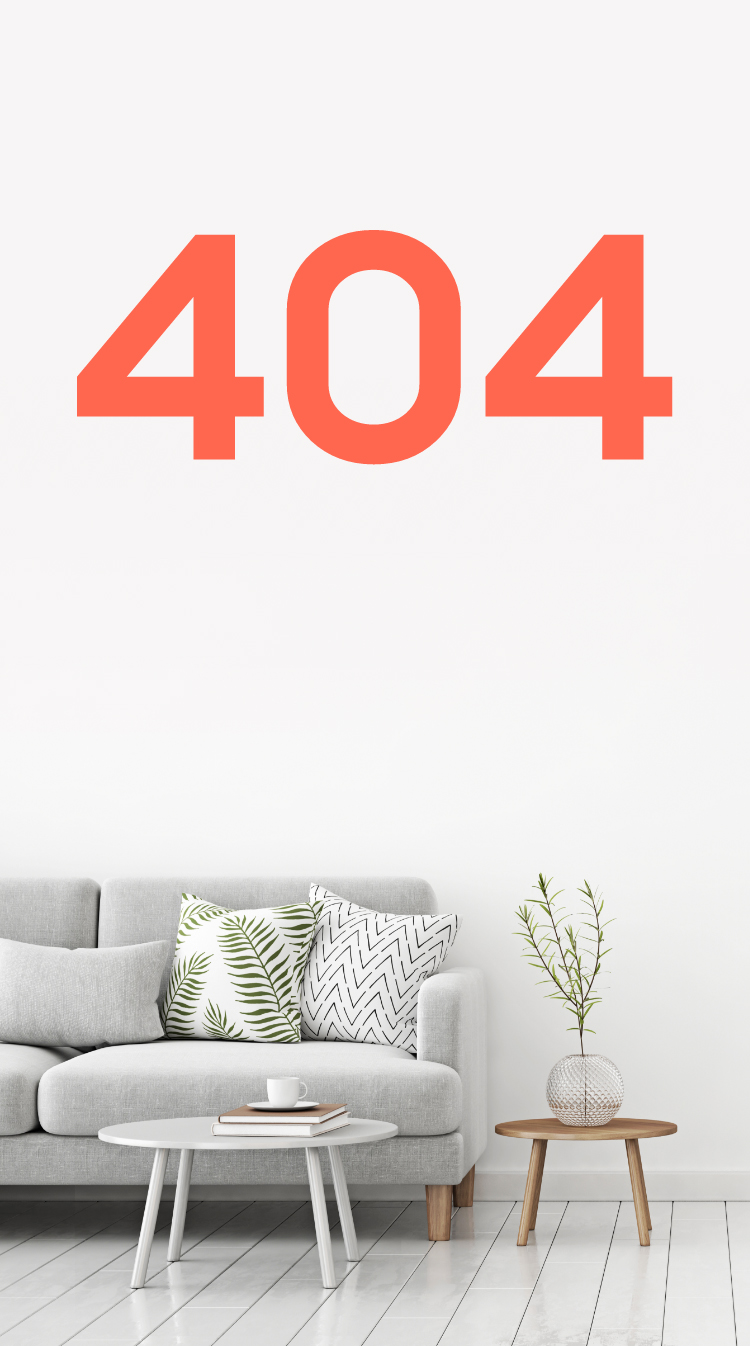
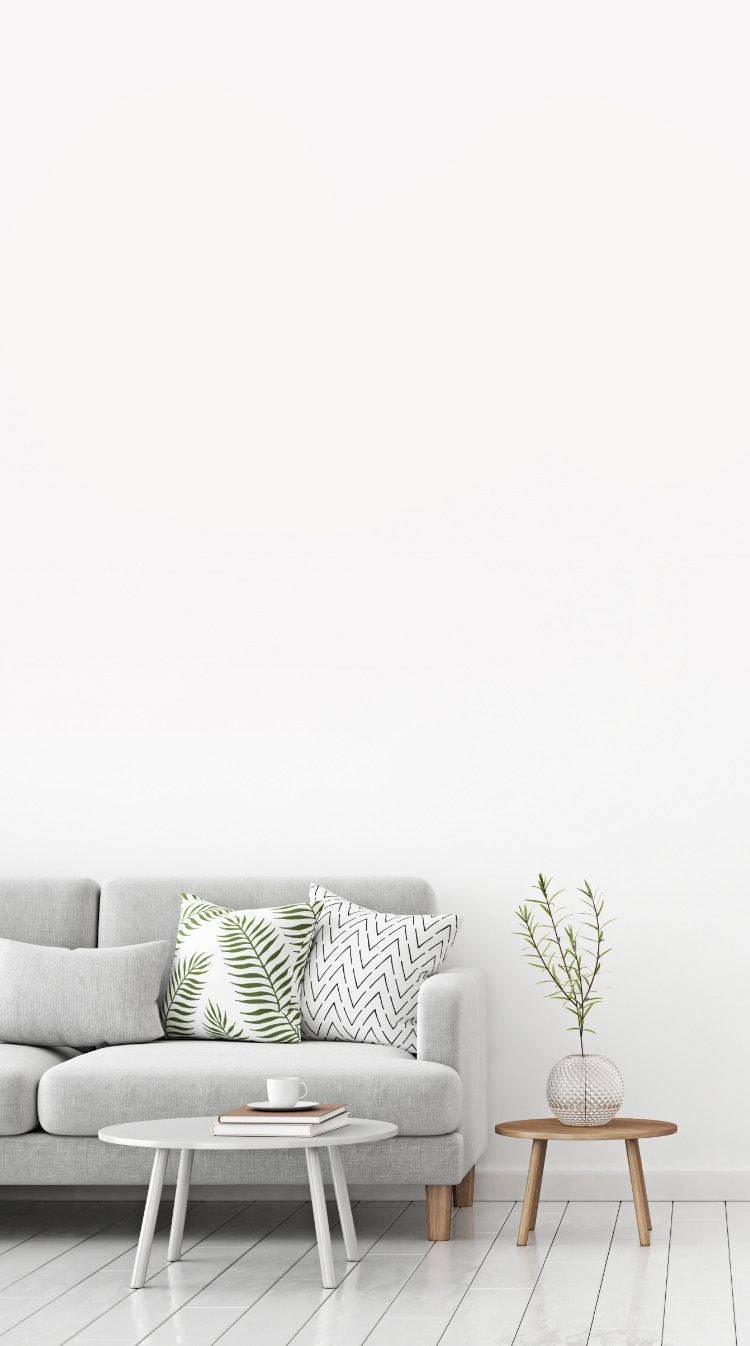
[ADD] - 404 Page

Changed region(s): [[0.092, 0.156, 0.6133, 0.3432], [0.644, 0.156, 0.92, 0.3432]]

diff --git a/css/style.css b/css/style.css
@@ -1821,12 +1821,17 @@ body {
 .error .text {
   text-align: center;
   position: absolute;
-  top: 58%;
+  top: 42%;
   left: 50%;
   transform: translate(-50%, -50%);
 }
 
 .error .text h1 {
+  font-size: 15vw;
+  line-height: 1;
+}
+
+.error .text h2 {
   line-height: 1;
 }
 
@@ -1836,8 +1841,12 @@ body {
 
 @media (max-width: 1023.98px) {
   .error .text {
-    top: 50%;
+    top: 38%;
     width: 90%;
+  }
+
+  .error .text h1 {
+    font-size: 43vw;
   }
   
   .error .text p {

diff --git a/404.html b/404.html
@@ -86,7 +86,8 @@
       </picture>
     </div>
     <div class="text">
-      <h1 class="f-d-50 f-m-50">It looks like you're lost..</h1>
+      <h1 class="text-orange">404</h1>
+      <h2 class="f-d-50 f-m-50">It looks like you're lost..</h2>
       <p class="f-d-24 f-m-34">The page you are looking for no longer exists.</p>
       <a href="#" class="btn btn-primary">Back to Home <img src="img/icons/arrow-right-white.svg" alt="redecor-img"></a>
     </div>
